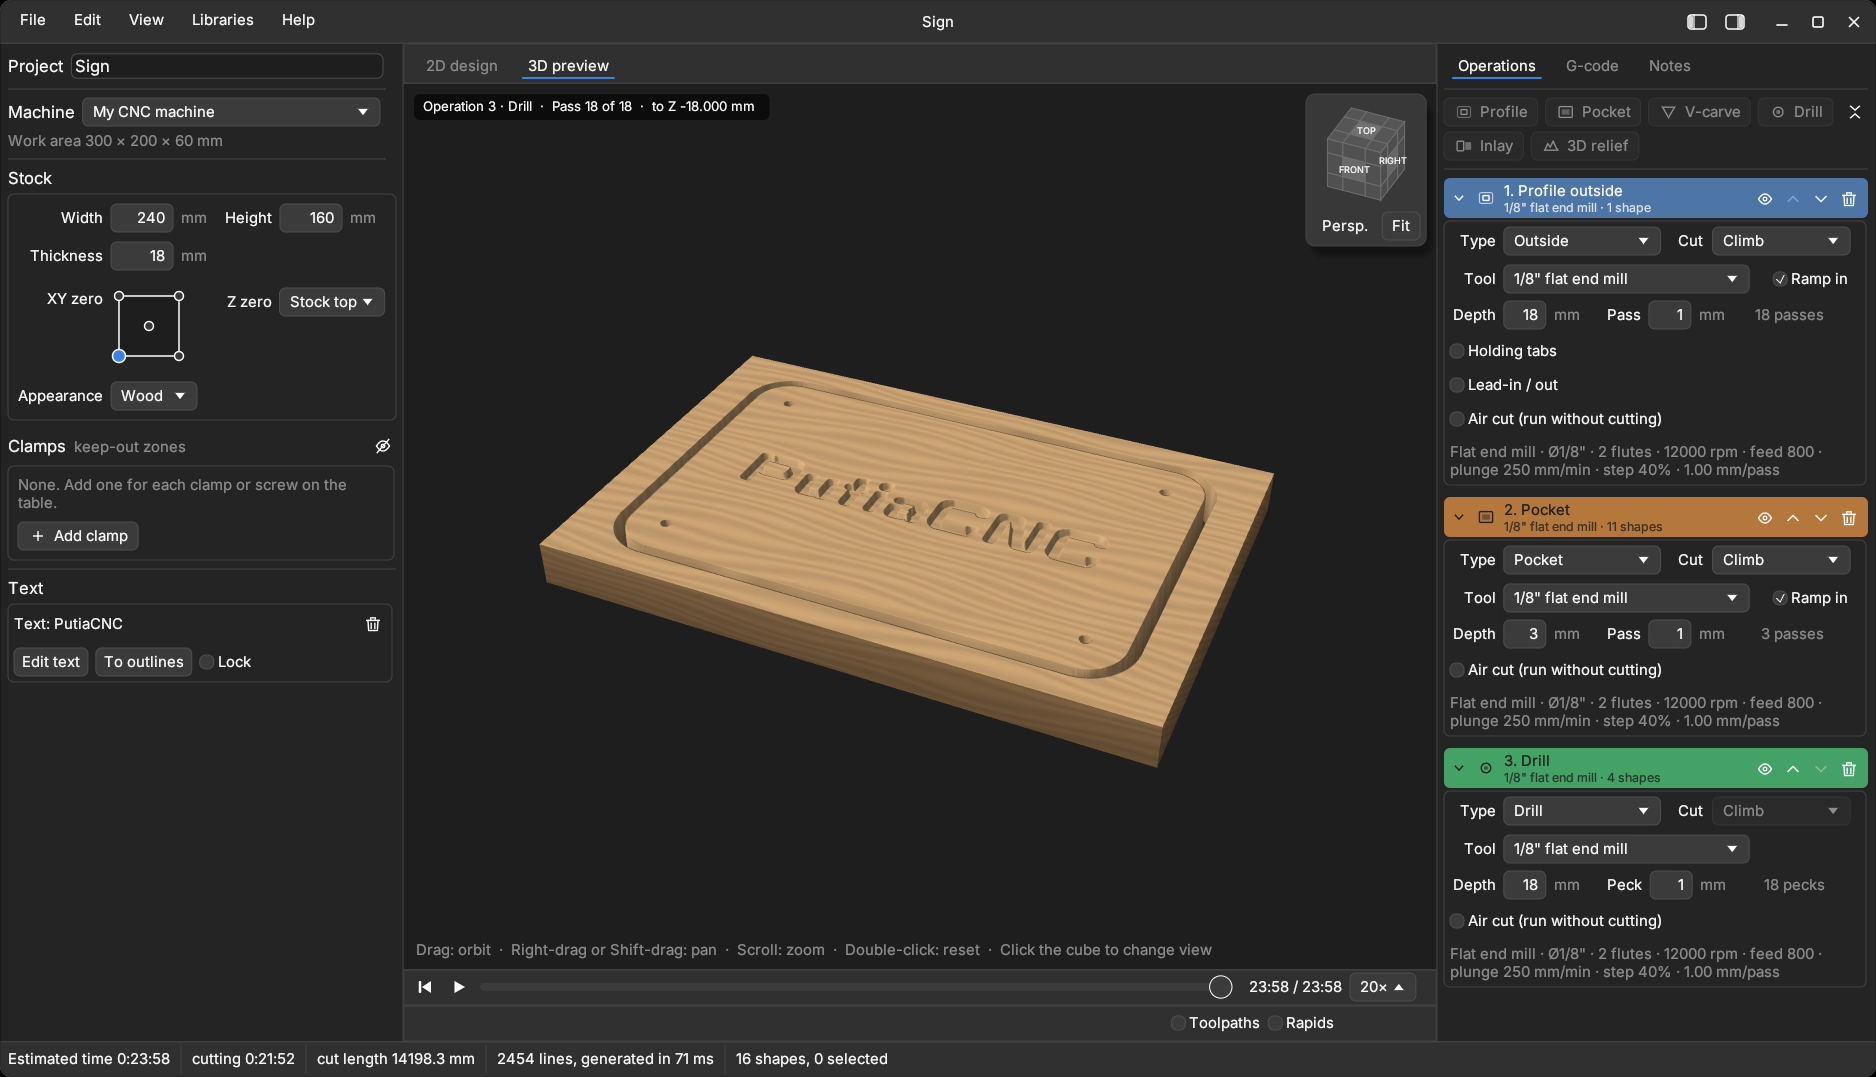
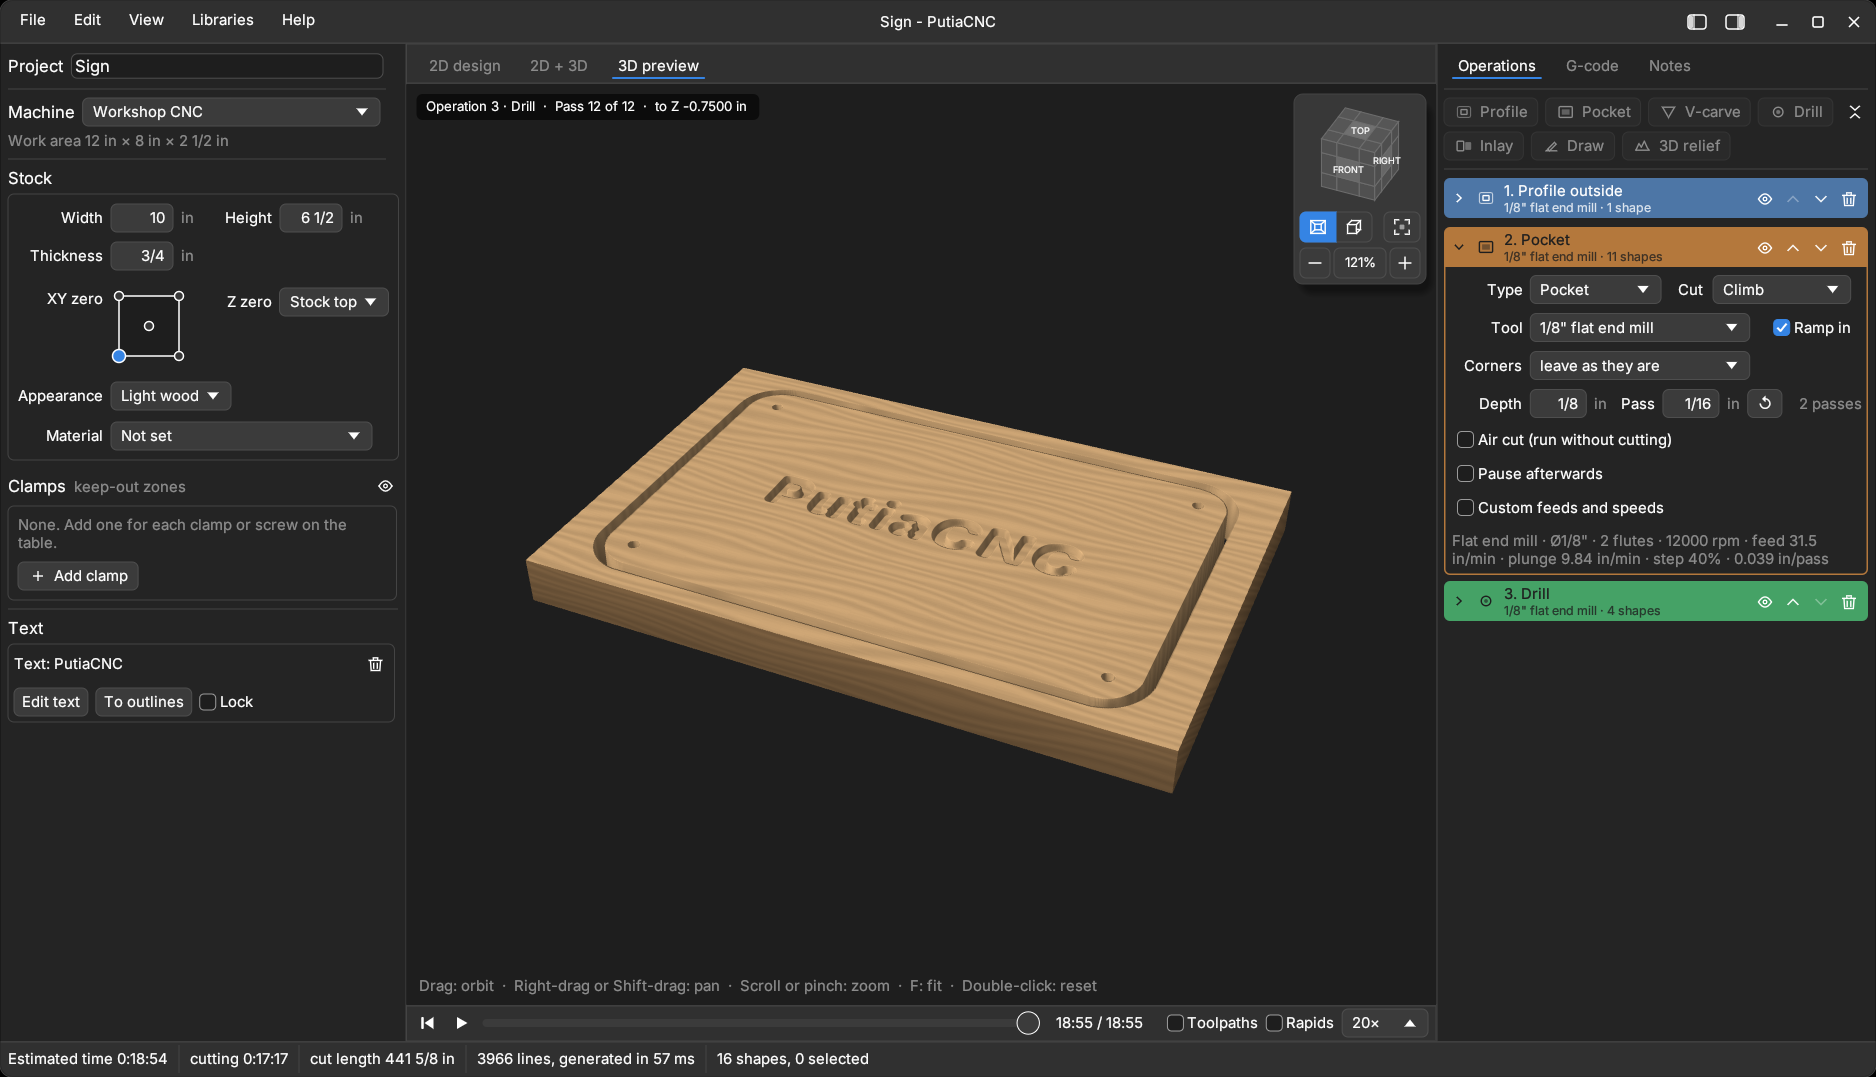
Website and README screenshots: the current look; 2D in millimetres, 3D in inches as fractions (docproject inch sign is an inch machine)
Claude-Session: https://claude.ai/code/session_01J6kk3u45i17Q6y9jCcitHw

diff --git a/examples/docproject.rs b/examples/docproject.rs
@@ -24,7 +24,7 @@ fn main() {
     if inch {
         d.stock.w = 10.0 * k; d.stock.h = 6.5 * k; d.stock.t = 0.75 * k;
         // a work area of 12 x 8 x 2.5 in
-        d.machine = Some(putiacnc_core::model::Machine { id: "m_inch_router".into(), name: "Workshop CNC".into(), x: 12.0 * k, y: 8.0 * k, z: 2.5 * k, ..Default::default() });
+        d.machine = Some(putiacnc_core::model::Machine { id: "m_inch_router".into(), name: "Workshop CNC".into(), x: 12.0 * k, y: 8.0 * k, z: 2.5 * k, inches: Some(true), ..Default::default() });
     } else {
         d.stock.w = 240.0; d.stock.h = 160.0; d.stock.t = 18.0;
     }

diff --git a/README.md b/README.md
@@ -14,7 +14,7 @@ stock, and export G-code. Projects are saved as JSON files (`"app": "putia-cnc"`
 
 
 ![3D preview: the finished cut in light wood](docs/screenshot-3d.png)
-*3D preview: the toolpath is replayed on the stock (shown here once every operation has run), so you can check the result before sending the G-code to the machine.*
+*3D preview, here in inches shown as fractions (millimetres, decimal inches and fractions are a setting): the toolpath is replayed on the stock (shown once every operation has run), so you can check the result before sending the G-code to the machine.*
 
 
 https://github.com/user-attachments/assets/125b44a8-97f7-4a43-9ab0-32ccd8410e06
